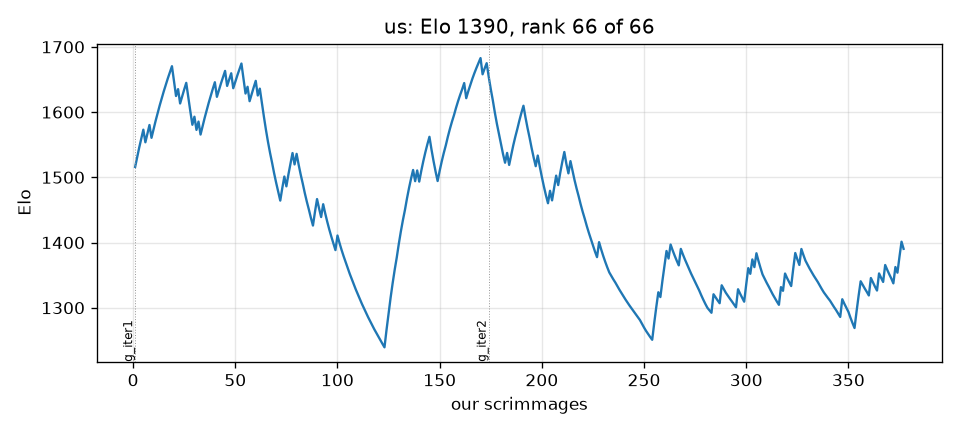
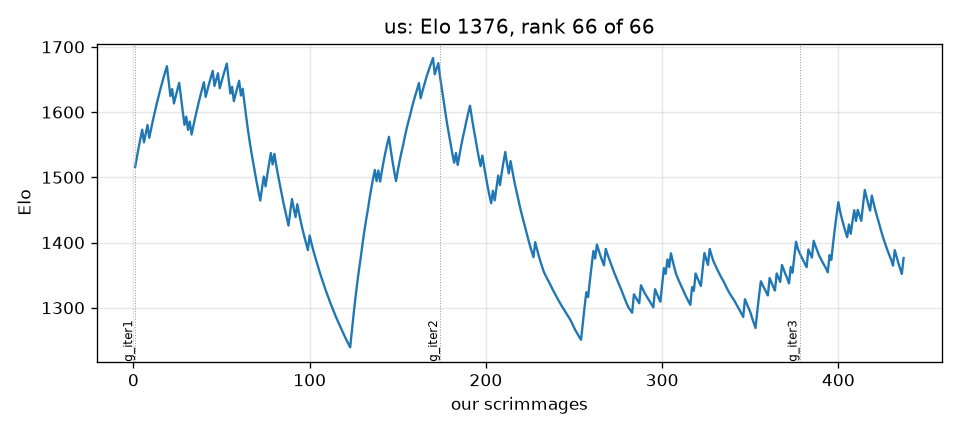
Block 8: g_iter3 16/60 (benzyx unlocked); Iteration 9 raid: safe approach, charge at seats in sight
Claude-Session: https://claude.ai/code/session_01CTUHPRaZ9DbYUkpWKYf2Y2

diff --git a/src/bot/Drone.java b/src/bot/Drone.java
@@ -44,11 +44,11 @@ public strictfp class Drone extends Robot {
         // wrong symmetry image is pruned; gather at RAID_RALLY; charge once RAID_SIZE are together or a friend already charged.
         if (raidTime) {
             MapLocation ehq = MapState.enemyHQGuess();
-            if (MapState.enemyHQ == null) { if (!rc.canSenseLocation(ehq)) { nav.setTarget(ehq); nav.step(); } return; }
+            if (MapState.enemyHQ == null) { if (!rc.canSenseLocation(ehq)) approachSafely(ehq); return; }   // look at the guess from outside gun range
             int near = 0; boolean follow = false;
             for (int i = nFriend; --i >= 0;) { RobotInfo f = friends[i]; if (f.type != RobotType.DELIVERY_DRONE) continue; near++; if (Nav.cheb(f.location, ehq) < C.RAID_RALLY - 1) follow = true; }
-            raiding = near + 1 >= C.RAID_SIZE || follow;
-            if (raiding) { nav.setTarget(ehq); nav.step(); return; }   // the pickup loop above takes over once a seat is in sight
+            raiding = near + 1 >= C.RAID_SIZE || follow || round >= C.RAID_LATEST;
+            if (raiding) { approachSafely(ehq); return; }   // close in outside gun range until a seat is in sight; the pickup loop above then dashes for it (7 drones flying at the HQ itself were shot one a round at d2 9)
             MapLocation h = MapState.home != null ? MapState.home : loc;
             int dx = Integer.signum(h.x - ehq.x), dy = Integer.signum(h.y - ehq.y);
             MapLocation rally = new MapLocation(ehq.x + dx * C.RAID_RALLY, ehq.y + dy * C.RAID_RALLY);
@@ -62,6 +62,14 @@ public strictfp class Drone extends Robot {
             else patrol = new MapLocation(loc.x + nextInt(21) - 10, loc.y + nextInt(21) - 10);
         }
         nav.setTarget(patrol); if (!nav.step()) patrol = null;
+    }
+
+    /** One step toward t onto a tile outside r2 15 of it (the HQ's and a net gun's reach); a diagonal step from 25 can land at 13. */
+    private void approachSafely(MapLocation t) throws GameActionException {
+        if (!rc.isReady()) return;
+        Direction bestD = null; int bdd = loc.distanceSquaredTo(t);
+        for (int i = 8; --i >= 0;) { Direction d = DIRS[i]; MapLocation n = loc.add(d); if (!rc.canMove(d) || !allowedTile(n)) continue; int dd = n.distanceSquaredTo(t); if (dd > 15 && dd < bdd) { bdd = dd; bestD = d; } }
+        if (bestD != null) { rc.move(bestD); loc = rc.getLocation(); }
     }
 
     /** The nearest flooded tile in sight, or null. */

diff --git a/src/bot/C.java b/src/bot/C.java
@@ -30,7 +30,8 @@ public final class C {
     // Iteration 9: the late raid. After the flood only the enemy HQ shoots (one drone a round, r2 15); its seats sit
     // within reach of a drone hovering over the water beside the ring. Gather outside range, charge together.
     public static final int RAID_ROUND = 2300;        // late enough that every enemy net gun has drowned, early enough to stall their wall before r2500
-    public static final int RAID_SIZE = 3;            // drones together before they charge (the incumbent has 5-8 all game)
+    public static final int RAID_SIZE = 2;            // drones together before they charge (two survived to r2400 on RealArt); after RAID_LATEST every drone charges alone
+    public static final int RAID_LATEST = 2600;       // the wall race is decided by r3000: whatever is left goes in
     public static final int RAID_RALLY = 7;           // Chebyshev distance from the enemy HQ where raiders gather
 
     // --- wall

diff --git a/BENCHMARK.md b/BENCHMARK.md
@@ -54,14 +54,14 @@ every recorded block; the tier is the most recent build's record against that op
 | `ARognes.flyingturtlebot` | ARognes_Battlecode (2ebba1e) | - | - | untested |  |
 | `AllenWang314.bot1` | AllenWang314_Battlecode (3b90f73) | 100 | 5 | peer(>90 once) | 100 |
 | `AllenWang314.lecMod2` | AllenWang314_Battlecode (3b90f73) | - | - | untested |  |
-| `AngusRitossa.newbot` | AngusRitossa_battlecode20 (c9ad5c7) | 8 | 12 | locked | 0 8 |
+| `AngusRitossa.newbot` | AngusRitossa_battlecode20 (c9ad5c7) | 0 | 4 | locked | 0 8 0 |
 | `AngusRitossa.okbot` | AngusRitossa_battlecode20 (c9ad5c7) | - | - | untested |  |
 | `EmaPajic.Mark1` | EmaPajic_Battlecode-2020 (c060a22) | - | - | untested |  |
 | `EmaPajic.Mark2` | EmaPajic_Battlecode-2020 (c060a22) | - | - | untested |  |
 | `EmaPajic.Mark3` | EmaPajic_Battlecode-2020 (c060a22) | - | - | untested |  |
 | `EmaPajic.Mark4` | EmaPajic_Battlecode-2020 (c060a22) | - | - | untested |  |
 | `EmaPajic.Mark5` | EmaPajic_Battlecode-2020 (c060a22) | - | - | untested |  |
-| `EmaPajic.Qualifications` | EmaPajic_Battlecode-2020 (c060a22) | 0 | 12 | locked | 20 0 |
+| `EmaPajic.Qualifications` | EmaPajic_Battlecode-2020 (c060a22) | 25 | 4 | target | 20 0 25 |
 | `EmaPajic.SeedingBot` | EmaPajic_Battlecode-2020 (c060a22) | - | - | untested |  |
 | `GabrielDWu.basicbot` | GabrielDWu_blezers-battlecode2020 (c0283f8) | - | - | untested |  |
 | `GabrielDWu.blezerbot` | GabrielDWu_blezers-battlecode2020 (c0283f8) | - | - | untested |  |
@@ -79,7 +79,7 @@ every recorded block; the tier is the most recent build's record against that op
 | `IvanGeffner.dronecrunchplus` | IvanGeffner_battlecode2020 (bc7dbca) | - | - | untested |  |
 | `IvanGeffner.ecoplayer` | IvanGeffner_battlecode2020 (bc7dbca) | - | - | untested |  |
 | `IvanGeffner.ecoplus` | IvanGeffner_battlecode2020 (bc7dbca) | - | - | untested |  |
-| `IvanGeffner.finalbota` | IvanGeffner_battlecode2020 (bc7dbca) | 8 | 12 | locked | 0 8 |
+| `IvanGeffner.finalbota` | IvanGeffner_battlecode2020 (bc7dbca) | 25 | 4 | target | 0 8 25 |
 | `IvanGeffner.finalbotb` | IvanGeffner_battlecode2020 (bc7dbca) | - | - | untested |  |
 | `IvanGeffner.finalbotc` | IvanGeffner_battlecode2020 (bc7dbca) | - | - | untested |  |
 | `IvanGeffner.landscaperop` | IvanGeffner_battlecode2020 (bc7dbca) | - | - | untested |  |
@@ -158,8 +158,8 @@ every recorded block; the tier is the most recent build's record against that op
 | `anthonybench.redemptionplayer` | anthonybench_MITBattleCode-2020 (38fbb99) | - | - | untested |  |
 | `arya-k.donothing` | arya-k_bc20 (1b969b3) | - | - | untested |  |
 | `atliSig.buttletplayer` | atliSig_battlecode20-scaffold (b64b063) | 100 | 1 | peer(>90 once) | 100 |
-| `awesomelemonade.citricsky` | awesomelemonade_Battlecode2020 (7a50e66) | 0 | 12 | locked | 0 0 |
-| `battlecode20-team4.finalbota` | battlecode20-team4_battlecode20-scaffold (1cee065) | 8 | 12 | locked | 0 8 |
+| `awesomelemonade.citricsky` | awesomelemonade_Battlecode2020 (7a50e66) | 0 | 4 | locked | 0 0 0 |
+| `battlecode20-team4.finalbota` | battlecode20-team4_battlecode20-scaffold (1cee065) | 50 | 4 | peer | 0 8 50 |
 | `battlecode20-team4.team4enemy` | battlecode20-team4_battlecode20-scaffold (1cee065) | - | - | untested |  |
 | `battlecode20-team4.team4player` | battlecode20-team4_battlecode20-scaffold (1cee065) | - | - | untested |  |
 | `battlecode.lectureplayer` | battlecode_lectureplayer (2836576) | - | - | untested |  |
@@ -170,11 +170,11 @@ every recorded block; the tier is the most recent build's record against that op
 | `benzyx.espada` | benzyx_bc20-waterloo (05df2e7) | - | - | untested |  |
 | `benzyx.firstplayer` | benzyx_bc20-waterloo (05df2e7) | - | - | untested |  |
 | `benzyx.kurobot` | benzyx_bc20-waterloo (05df2e7) | - | - | untested |  |
-| `benzyx.seeding` | benzyx_bc20-waterloo (05df2e7) | 17 | 12 | locked | 25 17 |
+| `benzyx.seeding` | benzyx_bc20-waterloo (05df2e7) | 75 | 4 | peer | 25 17 75 |
 | `benzyx.tortuga` | benzyx_bc20-waterloo (05df2e7) | - | - | untested |  |
 | `charboltron.master_player` | charboltron_pdx_battlecode_2020_team_11 (f78f1e3) | - | - | untested |  |
 | `charboltron.team11newbot` | charboltron_pdx_battlecode_2020_team_11 (f78f1e3) | 100 | 1 | peer(>90 once) | 100 |
-| `cormackikkert.whyPermutator` | cormackikkert_battlecode2020 (4d230c4) | 17 | 12 | locked | 25 17 |
+| `cormackikkert.whyPermutator` | cormackikkert_battlecode2020 (4d230c4) | 0 | 4 | locked | 25 17 0 |
 | `cormackikkert.whyPermutatorOld` | cormackikkert_battlecode2020 (4d230c4) | - | - | untested |  |
 | `cosimogonnelli.Team3player` | cosimogonnelli_CS454-554-SE (d7dc657) | 80 | 5 | peer | 80 |
 | `cs454-w20-team3.oldbot` | cs454-w20-team3_team3-bot (502c334) | - | - | untested |  |
@@ -202,7 +202,7 @@ every recorded block; the tier is the most recent build's record against that op
 | `kylittle.deliriumv1` | kylittle_DeliriumBattlecode (17a94dd) | - | - | untested |  |
 | `kylittle.qualsbot` | kylittle_DeliriumBattlecode (17a94dd) | - | - | untested |  |
 | `kylittle.qualsbot2` | kylittle_DeliriumBattlecode (17a94dd) | 100 | 1 | peer(>90 once) | 100 |
-| `laurenschneider.pdx_team_one` | laurenschneider_battlecode20-PDXTeamOne (2965376) | 50 | 12 | peer | 0 50 |
+| `laurenschneider.pdx_team_one` | laurenschneider_battlecode20-PDXTeamOne (2965376) | 75 | 4 | peer | 0 50 75 |
 | `lfchain.bigBudsBot` | lfchain_Battlecode2020 (b026153) | 100 | 1 | peer(>90 once) | 100 |
 | `lfchain.fBot` | lfchain_Battlecode2020 (b026153) | - | - | untested |  |
 | `lfchain.jBot` | lfchain_Battlecode2020 (b026153) | - | - | untested |  |
@@ -222,7 +222,7 @@ every recorded block; the tier is the most recent build's record against that op
 | `max-titov.turtlebot` | max-titov_2020.battlecode-KFA (496103d) | - | - | untested |  |
 | `mhahn2003.bot01` | mhahn2003_bc20 (7475d5e) | - | - | untested |  |
 | `mhahn2003.lectureplayer` | mhahn2003_bc20 (7475d5e) | - | - | untested |  |
-| `mhahn2003.nonrush` | mhahn2003_bc20 (7475d5e) | 58 | 12 | peer | 25 58 |
+| `mhahn2003.nonrush` | mhahn2003_bc20 (7475d5e) | 50 | 2 | peer | 25 58 50 |
 | `mhahn2003.pure_teraform` | mhahn2003_bc20 (7475d5e) | - | - | untested |  |
 | `mhahn2003.rngform` | mhahn2003_bc20 (7475d5e) | - | - | untested |  |
 | `mhahn2003.rush` | mhahn2003_bc20 (7475d5e) | - | - | untested |  |
@@ -245,7 +245,7 @@ every recorded block; the tier is the most recent build's record against that op
 | `mvpatel2000.oldhades` | mvpatel2000_Battlecode2020 (554943e) | - | - | untested |  |
 | `mvpatel2000.poseidon` | mvpatel2000_Battlecode2020 (554943e) | - | - | untested |  |
 | `mvpatel2000.quail` | mvpatel2000_Battlecode2020 (554943e) | - | - | untested |  |
-| `mvpatel2000.qual` | mvpatel2000_Battlecode2020 (554943e) | 8 | 12 | locked | 0 8 |
+| `mvpatel2000.qual` | mvpatel2000_Battlecode2020 (554943e) | 50 | 4 | peer | 0 8 50 |
 | `mvpatel2000.qualAttacc` | mvpatel2000_Battlecode2020 (554943e) | - | - | untested |  |
 | `mvpatel2000.qualNoAtacc` | mvpatel2000_Battlecode2020 (554943e) | - | - | untested |  |
 | `mvpatel2000.seeding` | mvpatel2000_Battlecode2020 (554943e) | - | - | untested |  |
@@ -279,10 +279,10 @@ every recorded block; the tier is the most recent build's record against that op
 | `poortho.rush` | poortho_battlecode-2020 (ebbd61e) | - | - | untested |  |
 | `poortho.rush_bot` | poortho_battlecode-2020 (ebbd61e) | - | - | untested |  |
 | `poortho.stable_miner1` | poortho_battlecode-2020 (ebbd61e) | - | - | untested |  |
-| `poortho.stable_seeding_bot` | poortho_battlecode-2020 (ebbd61e) | 17 | 12 | locked | 0 17 |
+| `poortho.stable_seeding_bot` | poortho_battlecode-2020 (ebbd61e) | 25 | 4 | target | 0 17 25 |
 | `ps789.dennisTestPlayer` | ps789_AZBattlecode (f1d54ab) | - | - | untested |  |
 | `ps789.phillipTestPlayer` | ps789_AZBattlecode (f1d54ab) | - | - | untested |  |
-| `ronniesong0809.finalbota` | ronniesong0809_battlecode20-RADS (1cee065) | 18 | 11 | locked | 0 18 |
+| `ronniesong0809.finalbota` | ronniesong0809_battlecode20-RADS (1cee065) | 0 | 4 | locked | 0 18 0 |
 | `ronniesong0809.team4enemy` | ronniesong0809_battlecode20-RADS (1cee065) | - | - | untested |  |
 | `ronniesong0809.team4player` | ronniesong0809_battlecode20-RADS (1cee065) | - | - | untested |  |
 | `rsandzimier.PlayerAlpha` | rsandzimier_battlecode2020 (8d856c3) | - | - | untested |  |
@@ -292,7 +292,7 @@ every recorded block; the tier is the most recent build's record against that op
 | `rzhan11.kryptonite` | rzhan11_Battlecode2020 (3cc4b50) | - | - | untested |  |
 | `rzhan11.landscaper_rush_bot` | rzhan11_Battlecode2020 (3cc4b50) | - | - | untested |  |
 | `rzhan11.orig_rush_bot` | rzhan11_Battlecode2020 (3cc4b50) | - | - | untested |  |
-| `rzhan11.quals_bot` | rzhan11_Battlecode2020 (3cc4b50) | 17 | 12 | locked | 0 17 |
+| `rzhan11.quals_bot` | rzhan11_Battlecode2020 (3cc4b50) | 0 | 4 | locked | 0 17 0 |
 | `rzhan11.rush_bot` | rzhan11_Battlecode2020 (3cc4b50) | - | - | untested |  |
 | `rzhan11.seeding` | rzhan11_Battlecode2020 (3cc4b50) | - | - | untested |  |
 | `rzhan11.sprint` | rzhan11_Battlecode2020 (3cc4b50) | - | - | untested |  |
@@ -309,7 +309,7 @@ every recorded block; the tier is the most recent build's record against that op
 | `uvafan.v12_quals_bot` | uvafan_bc20 (86fe290) | - | - | untested |  |
 | `uvafan.v12_quals_bot_tuned` | uvafan_bc20 (86fe290) | - | - | untested |  |
 | `uvafan.v13_post_quals` | uvafan_bc20 (86fe290) | - | - | untested |  |
-| `uvafan.v14_final_bot` | uvafan_bc20 (86fe290) | 8 | 12 | locked | 0 8 |
+| `uvafan.v14_final_bot` | uvafan_bc20 (86fe290) | 0 | 3 | locked | 0 8 0 |
 | `uvafan.v14_final_bot_tuned` | uvafan_bc20 (86fe290) | - | - | untested |  |
 | `uvafan.v2_better_turtle` | uvafan_bc20 (86fe290) | - | - | untested |  |
 | `uvafan.v3_lattice` | uvafan_bc20 (86fe290) | - | - | untested |  |
@@ -325,9 +325,9 @@ every recorded block; the tier is the most recent build's record against that op
 | `willBoyd8.droideka` | willBoyd8_BattleDroid (4b1d4ad) | - | - | untested |  |
 | `willBoyd8.empire` | willBoyd8_BattleDroid (4b1d4ad) | - | - | untested |  |
 | `willBoyd8.mouse` | willBoyd8_BattleDroid (4b1d4ad) | - | - | untested |  |
-| `winkelmantanner.tannerplayer` | winkelmantanner_battlecode2020_the-levee-builders (7f49f11) | 25 | 12 | target | 0 25 |
+| `winkelmantanner.tannerplayer` | winkelmantanner_battlecode2020_the-levee-builders (7f49f11) | 33 | 3 | target | 0 25 33 |
 | `wpine215.stardustv1` | wpine215_battlecode (d570d57) | - | - | untested |  |
-| `wpine215.stardustv2` | wpine215_battlecode (d570d57) | 30 | 10 | target | 0 30 |
+| `wpine215.stardustv2` | wpine215_battlecode (d570d57) | 25 | 4 | target | 0 30 25 |
 | `yaonam.Robot_1` | yaonam_battlecode2020 (bb363f5) | 62 | 8 | peer | 62 |
 
 285 bot packages from 68 repositories.

diff --git a/progress/ONSET.md b/progress/ONSET.md
@@ -1,6 +1,6 @@
 # Which metric starts predicting the result first
 
-12 games, 6 wins. Noise floor about 0.58; a correlation inside that band is not evidence.
+34 games, 15 wins. Noise floor about 0.34; a correlation inside that band is not evidence.
 
 Every metric is oriented so **higher is better for us**, so a positive correlation always means
 "this being better goes with winning". `~avg` is the running mean over all rounds so far rather than
@@ -12,46 +12,46 @@ See `progress/METRICS.md` for how each quantity is computed.
 
 | onset | anti | metric | peak corr | r100 | r200 | r300 | r400 | r600 | r900 |
 |---|---|---|---|---|---|---|---|---|---|
-| r50 | r750 | miners (us-them) | +0.48 | +0.34 | +0.27 | +0.30 | +0.26 | +0.21 | -0.33 |
-| r50 | - | miners (us-them) ~avg | +0.48 | +0.42 | +0.35 | +0.33 | +0.32 | +0.29 | +0.13 |
-| r50 | - | robots (us-them) ~avg | +0.61 | +0.32 | +0.08 | +0.09 | +0.19 | +0.41 | +0.54 |
-| r50 | - | spawned (us-them) ~avg | +0.68 | +0.32 | +0.08 | +0.08 | +0.20 | +0.47 | +0.63 |
-| r50 | - | units (us-them) ~avg | +0.52 | +0.32 | -0.01 | -0.07 | -0.01 | +0.23 | +0.41 |
-| r100 | r250 | drones (us-them) | +0.65 | +0.35 | +0.49 | -0.38 | -0.24 | +0.14 | +0.09 |
-| r100 | - | drones (us-them) ~avg | +0.56 | +0.35 | +0.56 | -0.09 | -0.22 | -0.05 | +0.04 |
-| r100 | - | pickups (us-them) | +0.60 | +0.30 | +0.39 | +0.60 | +0.42 | +0.44 | +0.50 |
-| r100 | - | pickups (us-them) ~avg | +0.57 | +0.30 | +0.45 | +0.55 | +0.54 | +0.48 | +0.48 |
-| r150 | - | vaporators (us-them) | +0.71 | . | +0.58 | +0.71 | +0.65 | +0.16 | +0.38 |
-| r150 | - | vaporators (us-them) ~avg | +0.71 | . | +0.53 | +0.64 | +0.71 | +0.51 | +0.52 |
-| r250 | - | netguns (us-them) | +0.67 | . | . | +0.52 | +0.65 | +0.65 | +0.65 |
-| r250 | - | netguns (us-them) ~avg | +0.65 | . | . | +0.44 | +0.60 | +0.64 | +0.65 |
-| r350 | - | robots (us-them) | +0.71 | +0.19 | -0.04 | +0.15 | +0.36 | +0.55 | +0.64 |
-| r350 | - | spawned (us-them) | +0.75 | +0.19 | -0.04 | +0.14 | +0.44 | +0.67 | +0.73 |
-| r350 | - | worth (us-them) | +0.70 | -0.08 | -0.06 | +0.25 | +0.54 | +0.55 | +0.70 |
-| r400 | - | mines (us-them) | +0.66 | +0.04 | -0.02 | +0.14 | +0.33 | +0.57 | +0.66 |
-| r450 | - | worth (us-them) ~avg | +0.64 | -0.08 | -0.03 | +0.09 | +0.28 | +0.48 | +0.60 |
-| r500 | r100 | landscapers (us-them) | +0.67 | -0.43 | -0.62 | -0.10 | +0.08 | +0.47 | +0.64 |
-| r500 | - | units (us-them) | +0.70 | +0.20 | -0.17 | -0.05 | +0.10 | +0.47 | +0.55 |
-| r550 | - | mines (us-them) ~avg | +0.59 | -0.04 | +0.01 | +0.09 | +0.17 | +0.37 | +0.54 |
-| r750 | r100 | digs (us-them) | -0.62 | -0.62 | -0.52 | -0.38 | -0.28 | +0.05 | +0.44 |
-| r750 | r100 | landscapers (us-them) ~avg | -0.70 | -0.43 | -0.70 | -0.52 | -0.28 | +0.15 | +0.45 |
-| r800 | r100 | dirtDeps (us-them) | -0.70 | -0.60 | -0.54 | -0.39 | -0.34 | +0.00 | +0.44 |
-| r1000 | r100 | digs (us-them) ~avg | -0.62 | -0.62 | -0.57 | -0.45 | -0.38 | -0.20 | +0.22 |
-| r1050 | r100 | dirtDeps (us-them) ~avg | -0.68 | -0.60 | -0.60 | -0.47 | -0.41 | -0.25 | +0.19 |
-| - | - | aba (us-them) [inverted] | +0.16 | +0.16 | +0.11 | +0.08 | +0.04 | -0.14 | -0.10 |
-| - | - | aba (us-them) [inverted] ~avg | +0.16 | +0.16 | +0.08 | +0.10 | +0.09 | -0.03 | -0.10 |
-| - | - | cov (us-them) | -0.22 | +0.12 | +0.11 | -0.06 | +0.03 | +0.14 | +0.09 |
-| - | - | cov (us-them) ~avg | -0.22 | +0.03 | +0.08 | +0.03 | +0.03 | +0.05 | +0.08 |
-| - | r400 | died (us-them) [inverted] | -0.49 | . | . | +0.00 | -0.36 | -0.28 | -0.46 |
-| - | r450 | died (us-them) [inverted] ~avg | -0.52 | . | . | +0.00 | -0.22 | -0.32 | -0.51 |
+| r50 | - | mines (us-them) | +0.45 | +0.43 | +0.28 | +0.26 | +0.21 | +0.09 | -0.04 |
+| r50 | - | mines (us-them) ~avg | +0.51 | +0.51 | +0.38 | +0.33 | +0.28 | +0.19 | +0.01 |
+| r100 | - | worth (us-them) | +0.32 | +0.32 | +0.28 | +0.25 | +0.23 | +0.21 | +0.18 |
+| r100 | - | worth (us-them) ~avg | +0.38 | +0.38 | +0.33 | +0.29 | +0.27 | +0.24 | +0.16 |
+| r250 | - | cov (us-them) | +0.31 | +0.11 | +0.29 | +0.28 | +0.24 | +0.25 | +0.07 |
+| r500 | - | cov (us-them) ~avg | +0.36 | +0.06 | +0.21 | +0.27 | +0.27 | +0.34 | +0.22 |
+| r550 | - | vaporators (us-them) ~avg | +0.30 | +0.23 | +0.28 | +0.30 | +0.26 | +0.30 | +0.26 |
+| r650 | - | vaporators (us-them) | +0.31 | +0.23 | +0.27 | +0.28 | +0.22 | +0.29 | +0.23 |
+| - | - | aba (us-them) [inverted] | +0.23 | +0.22 | -0.06 | -0.07 | -0.15 | -0.17 | -0.17 |
+| - | r950 | aba (us-them) [inverted] ~avg | -0.36 | +0.23 | +0.00 | -0.06 | -0.09 | -0.14 | -0.19 |
+| - | - | died (us-them) [inverted] | -0.27 | -0.20 | -0.27 | -0.10 | +0.11 | +0.13 | +0.15 |
+| - | - | died (us-them) [inverted] ~avg | -0.25 | -0.20 | -0.25 | -0.16 | -0.01 | +0.11 | +0.15 |
+| - | - | digs (us-them) | +0.23 | +0.07 | -0.03 | +0.07 | +0.15 | +0.21 | +0.15 |
+| - | - | digs (us-them) ~avg | +0.12 | +0.00 | -0.07 | +0.02 | +0.08 | +0.11 | +0.10 |
+| - | - | dirtDeps (us-them) | +0.22 | +0.08 | -0.03 | +0.06 | +0.12 | +0.18 | +0.14 |
+| - | - | dirtDeps (us-them) ~avg | +0.11 | +0.02 | -0.06 | +0.01 | +0.06 | +0.08 | +0.09 |
+| - | - | drones (us-them) | +0.25 | +0.08 | +0.24 | +0.25 | +0.13 | +0.03 | -0.02 |
+| - | - | drones (us-them) ~avg | +0.23 | +0.08 | +0.21 | +0.23 | +0.19 | +0.10 | -0.01 |
 | - | - | drowned (us-them) [inverted] | . | . | . | . | . | . | . |
 | - | - | drowned (us-them) [inverted] ~avg | . | . | . | . | . | . | . |
-| - | - | hqBuried (us-them) [inverted] | . | . | . | . | . | . | . |
-| - | - | hqBuried (us-them) [inverted] ~avg | . | . | . | . | . | . | . |
-| - | - | moves (us-them) | -0.30 | +0.05 | +0.04 | -0.08 | -0.06 | +0.01 | -0.05 |
-| - | - | moves (us-them) ~avg | -0.30 | -0.01 | +0.05 | -0.03 | -0.05 | -0.03 | -0.01 |
-| - | r300 | soup (us-them) | -0.53 | +0.04 | -0.27 | -0.46 | -0.06 | -0.00 | -0.43 |
-| - | r50 | soup (us-them) ~avg | -0.45 | -0.30 | -0.17 | -0.25 | -0.29 | -0.23 | -0.34 |
+| - | - | hqBuried (us-them) [inverted] | +0.20 | +0.20 | . | . | . | +0.20 | . |
+| - | - | hqBuried (us-them) [inverted] ~avg | +0.20 | +0.20 | . | . | . | +0.20 | . |
+| - | - | landscapers (us-them) | +0.27 | -0.06 | +0.08 | +0.03 | +0.20 | +0.16 | +0.24 |
+| - | - | landscapers (us-them) ~avg | -0.14 | -0.08 | -0.05 | -0.01 | +0.07 | +0.12 | +0.12 |
+| - | - | miners (us-them) | +0.14 | +0.13 | -0.08 | +0.06 | +0.11 | +0.11 | +0.04 |
+| - | - | miners (us-them) ~avg | +0.18 | +0.18 | +0.08 | +0.07 | +0.10 | +0.15 | +0.06 |
+| - | - | moves (us-them) | +0.13 | -0.05 | -0.04 | -0.09 | -0.03 | +0.10 | +0.08 |
+| - | - | moves (us-them) ~avg | +0.17 | -0.02 | +0.01 | -0.02 | -0.01 | +0.05 | +0.06 |
+| - | - | netguns (us-them) | +0.21 | . | -0.03 | -0.08 | -0.11 | +0.08 | +0.21 |
+| - | - | netguns (us-them) ~avg | -0.12 | . | -0.03 | -0.07 | -0.10 | -0.07 | +0.05 |
+| - | - | pickups (us-them) | -0.19 | -0.19 | -0.09 | +0.01 | +0.11 | +0.02 | +0.10 |
+| - | - | pickups (us-them) ~avg | -0.26 | -0.26 | -0.13 | -0.09 | -0.01 | +0.02 | +0.05 |
+| - | - | robots (us-them) | +0.22 | +0.09 | +0.19 | +0.19 | +0.22 | +0.17 | +0.13 |
+| - | - | robots (us-them) ~avg | +0.22 | +0.14 | +0.19 | +0.20 | +0.22 | +0.21 | +0.10 |
+| - | r500 | soup (us-them) | -0.34 | +0.09 | -0.21 | -0.19 | -0.06 | -0.25 | +0.10 |
+| - | - | soup (us-them) ~avg | -0.18 | +0.12 | +0.07 | -0.02 | -0.04 | -0.14 | -0.04 |
+| - | - | spawned (us-them) | +0.24 | +0.14 | +0.24 | +0.24 | +0.22 | +0.15 | +0.11 |
+| - | - | spawned (us-them) ~avg | +0.25 | +0.18 | +0.23 | +0.25 | +0.25 | +0.21 | +0.08 |
+| - | - | units (us-them) | +0.21 | +0.07 | +0.08 | +0.13 | +0.21 | +0.14 | +0.12 |
+| - | - | units (us-them) ~avg | +0.18 | +0.11 | +0.08 | +0.11 | +0.17 | +0.17 | +0.07 |
 
 **Reading it.** Earliest onset is the first place to look: temporal precedence is the one causal hint a
 correlation can honestly give. Late-onset metrics are usually the scoreboard rather than the cause -- by then

diff --git a/progress/ELO.md b/progress/ELO.md
@@ -1,23 +1,23 @@
 # Elo ladder
 
-377 scrimmages (ours only); K=32 from 1500; our team is **us**: rank 66 of 66 rated bots, Elo 1390, 377 games; 0 bots not yet met.
+437 scrimmages (ours only); K=32 from 1500; our team is **us**: rank 66 of 66 rated bots, Elo 1376, 437 games; 0 bots not yet met.
 
 | rank | bot | Elo | games | W-L (theirs) |
 |---|---|---|---|---|
-| 1 | awesomelemonade.citricsky | 1656 | 16 | 16-0 |
-| 2 | EmaPajic.Qualifications | 1651 | 17 | 16-1 |
-| 3 | AngusRitossa.newbot | 1639 | 16 | 15-1 |
-| 4 | IvanGeffner.finalbota | 1623 | 16 | 15-1 |
-| 5 | mvpatel2000.qual | 1622 | 16 | 15-1 |
-| 6 | battlecode20-team4.finalbota | 1614 | 16 | 15-1 |
-| 7 | uvafan.v14_final_bot | 1596 | 16 | 15-1 |
-| 8 | poortho.stable_seeding_bot | 1582 | 16 | 14-2 |
-| 9 | rzhan11.quals_bot | 1569 | 16 | 14-2 |
-| 10 | ronniesong0809.finalbota | 1565 | 15 | 13-2 |
-| 11 | benzyx.seeding | 1559 | 16 | 13-3 |
-| 12 | cormackikkert.whyPermutator | 1559 | 16 | 13-3 |
-| 13 | winkelmantanner.tannerplayer | 1543 | 16 | 13-3 |
-| 14 | wpine215.stardustv2 | 1526 | 14 | 11-3 |
+| 1 | awesomelemonade.citricsky | 1676 | 20 | 20-0 |
+| 2 | AngusRitossa.newbot | 1662 | 20 | 19-1 |
+| 3 | EmaPajic.Qualifications | 1642 | 21 | 19-2 |
+| 4 | IvanGeffner.finalbota | 1619 | 20 | 18-2 |
+| 5 | uvafan.v14_final_bot | 1617 | 19 | 18-1 |
+| 6 | ronniesong0809.finalbota | 1607 | 19 | 17-2 |
+| 7 | rzhan11.quals_bot | 1604 | 20 | 18-2 |
+| 8 | cormackikkert.whyPermutator | 1598 | 20 | 17-3 |
+| 9 | mvpatel2000.qual | 1592 | 20 | 17-3 |
+| 10 | poortho.stable_seeding_bot | 1590 | 20 | 17-3 |
+| 11 | battlecode20-team4.finalbota | 1576 | 20 | 17-3 |
+| 12 | winkelmantanner.tannerplayer | 1538 | 19 | 15-4 |
+| 13 | wpine215.stardustv2 | 1529 | 18 | 14-4 |
+| 14 | benzyx.seeding | 1510 | 20 | 14-6 |
 | 15 | ovimura.welovesoup | 1491 | 1 | 0-1 |
 | 16 | TeamSerpentine.eendagsvliegjes | 1491 | 1 | 0-1 |
 | 17 | orionquick.aldebaranplayer | 1491 | 1 | 0-1 |
@@ -54,19 +54,19 @@
 | 48 | charboltron.team11newbot | 1488 | 1 | 0-1 |
 | 49 | djkeyes.addingComm | 1488 | 1 | 0-1 |
 | 50 | ARognes.FinalSubmission | 1487 | 5 | 2-3 |
-| 51 | laurenschneider.pdx_team_one | 1484 | 16 | 10-6 |
-| 52 | cosimogonnelli.Team3player | 1480 | 5 | 1-4 |
-| 53 | yaonam.Robot_1 | 1474 | 8 | 3-5 |
-| 54 | VinayaBhat.team10pdx | 1472 | 7 | 2-5 |
-| 55 | Tim-gubski.AngryWaffleMaker | 1463 | 7 | 2-5 |
-| 56 | denver-blake.sprint | 1454 | 5 | 0-5 |
-| 57 | KyleHassold.sprintbot | 1448 | 5 | 0-5 |
+| 51 | cosimogonnelli.Team3player | 1480 | 5 | 1-4 |
+| 52 | yaonam.Robot_1 | 1474 | 8 | 3-5 |
+| 53 | VinayaBhat.team10pdx | 1472 | 7 | 2-5 |
+| 54 | Tim-gubski.AngryWaffleMaker | 1463 | 7 | 2-5 |
+| 55 | denver-blake.sprint | 1454 | 5 | 0-5 |
+| 56 | KyleHassold.sprintbot | 1448 | 5 | 0-5 |
+| 57 | laurenschneider.pdx_team_one | 1443 | 20 | 11-9 |
 | 58 | J-J-Chen.player | 1441 | 5 | 0-5 |
-| 59 | mhahn2003.nonrush | 1438 | 16 | 8-8 |
+| 59 | mhahn2003.nonrush | 1437 | 18 | 9-9 |
 | 60 | AllenWang314.bot1 | 1435 | 5 | 0-5 |
 | 61 | GabrielDWu.buildawall2 | 1432 | 5 | 0-5 |
 | 62 | cs454-w20-team3.playbot | 1431 | 10 | 4-6 |
 | 63 | A9ine.potato | 1424 | 5 | 0-5 |
 | 64 | 9mAhmad.lostincoordinates | 1412 | 5 | 0-5 |
 | 65 | 9mAhmad.MahinBot | 1398 | 5 | 0-5 |
-| 66 | **us** | 1390 | 377 | 144-233 |
+| 66 | **us** | 1376 | 437 | 160-277 |

diff --git a/TRAINING_LOG.md b/TRAINING_LOG.md
@@ -414,6 +414,14 @@ Cumulative for g_iter2 on the strong field: 37/156 (24%). Elo 1372, rank 66 of 6
 0/3 against the other nine. Cumulative for g_iter2 on the strong field: 47/204 (23%). Elo 1390,
 rank 66 of 66 (377 rated games).
 
+## Block 8 -- g_iter3 submission block (run block8, 2026-09-23)
+
+60 games, challenge pool of 16: **16/60 (26.7%)**. `laurenschneider` 3/4, `benzyx.seeding` 3/4 (first
+wins, unlocked), `mvpatel2000.qual` 2/4, `battlecode20-team4` 2/4; 1/4 against wpine215, poortho,
+IvanGeffner, EmaPajic; 0/4 against rzhan11, ronniesong0809, cormackikkert, awesomelemonade,
+AngusRitossa. g_iter2's cumulative was 47/204 (23%). Elo 1376 (K=32 drifts with the pool's own
+games), rank 66 of 66.
+
 ## Ledger (closed directions)
 
 - **The citadel (ring at Chebyshev 2 with the buildings sealed inside; Iteration 6, 2026-09-23)** --
